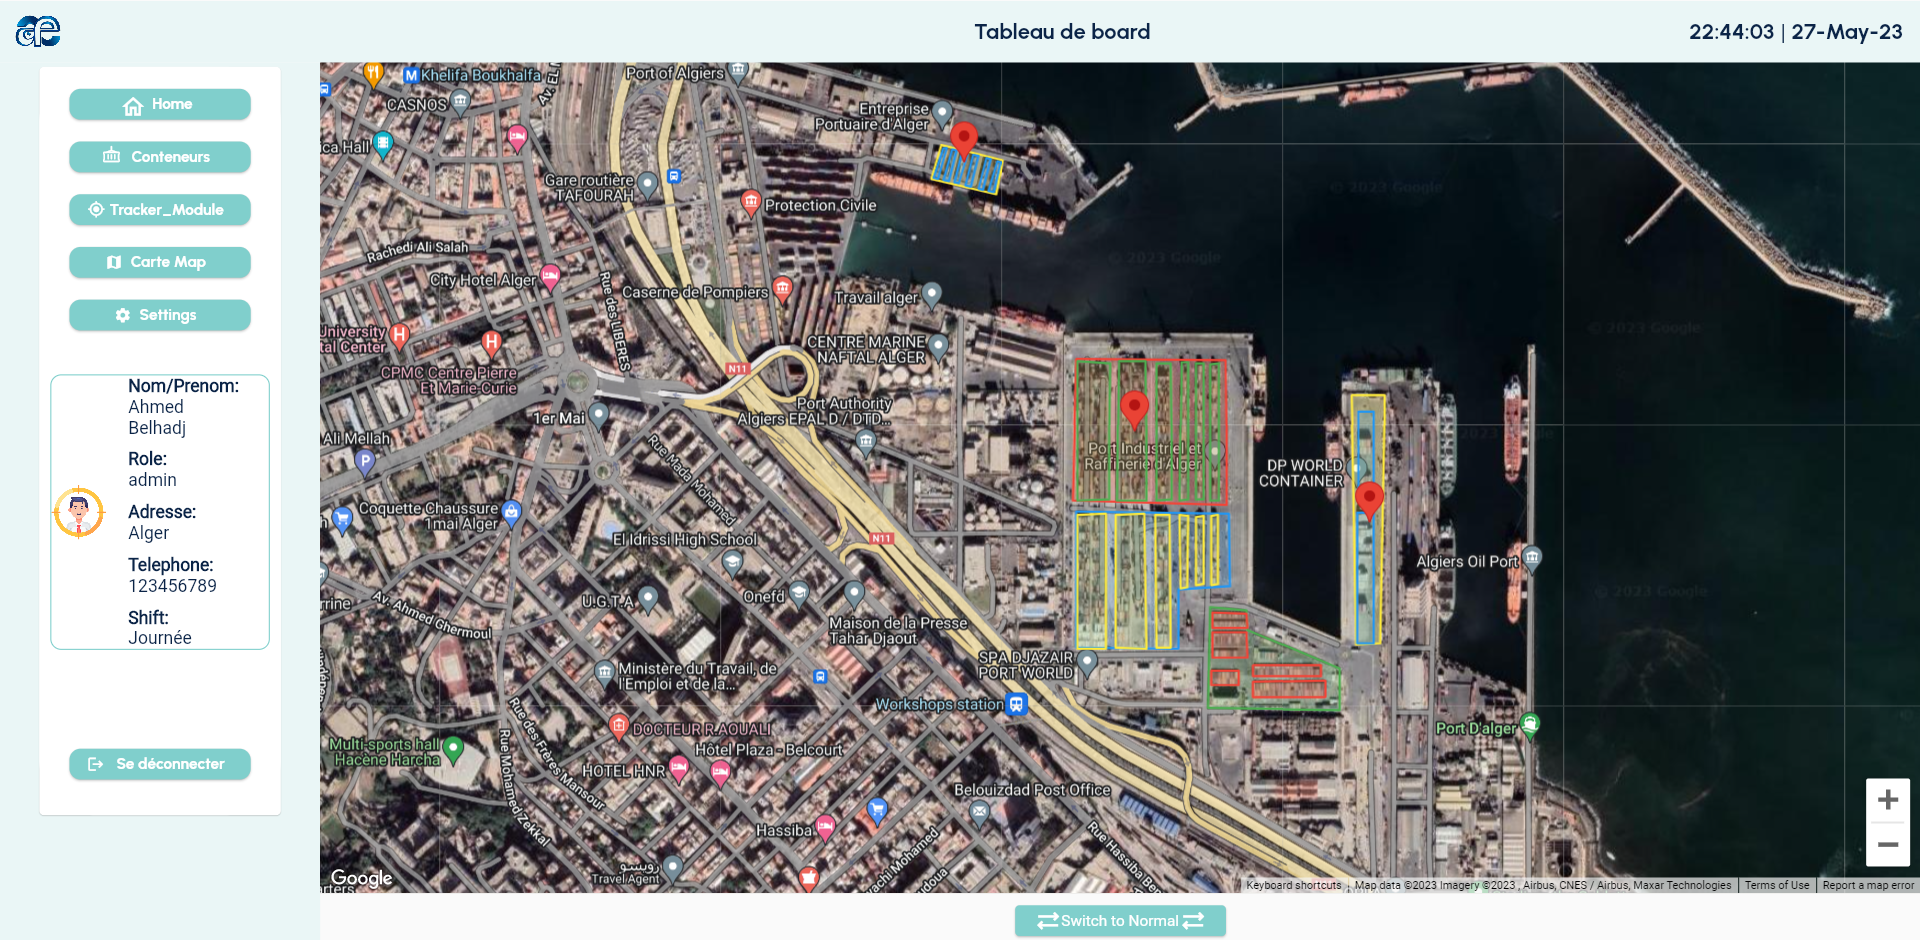
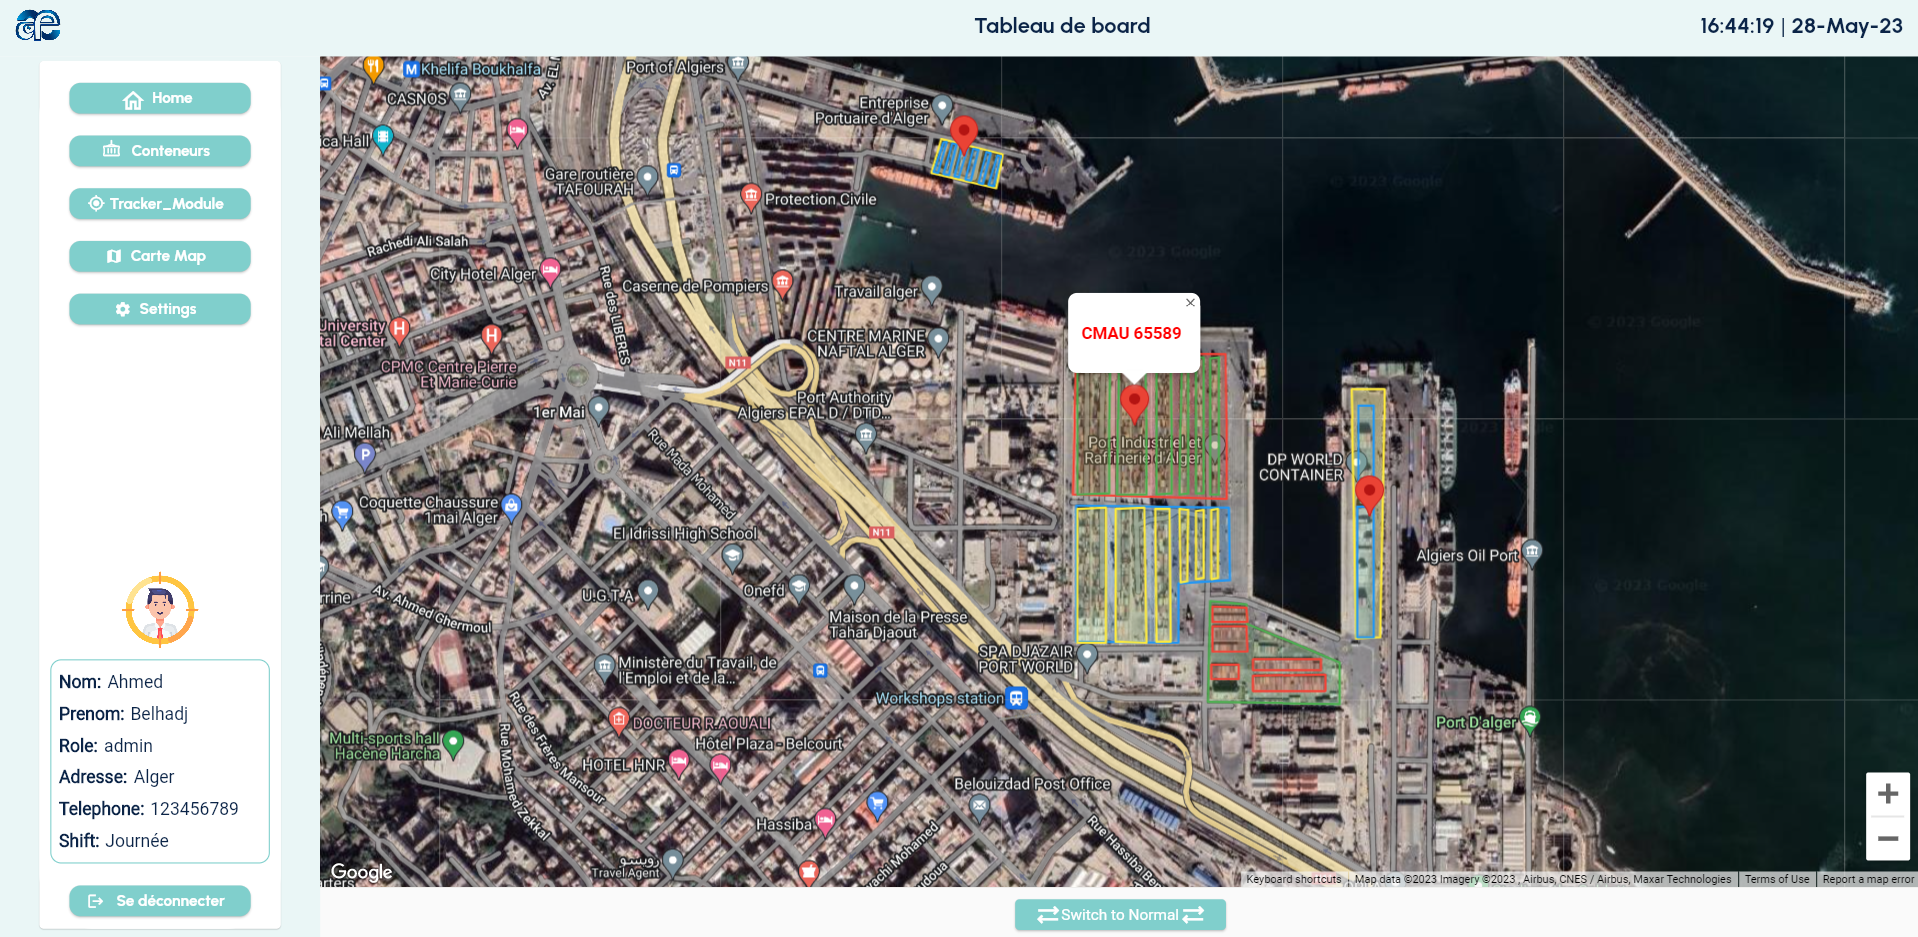
captures

diff --git a/epal/lib/WebPages/largescreen.dart b/epal/lib/WebPages/largescreen.dart
@@ -371,9 +371,9 @@ class _LargeScreenState extends State<LargeScreen> {
                         ),
                       ),
                       SizedBox(height: 20),*/
-                      SizedBox(height: 40),
+                      SizedBox(height: 225),
                       Image.asset("assets/employee.png", width: 70, height: 70),
-                      SizedBox(height: 25),
+                      SizedBox(height: 10),
                       Padding(
                         padding: const EdgeInsets.only(left: 10.0, right: 10.0),
                         child: Container(
@@ -539,7 +539,7 @@ class _LargeScreenState extends State<LargeScreen> {
                           ),
                         ),
                       ),
-                      SizedBox(height: 190),
+                      SizedBox(height: 20),
                       ElevatedButton(
                         style: ElevatedButton.styleFrom(
                           backgroundColor: Color(0xFF80CFCC),
